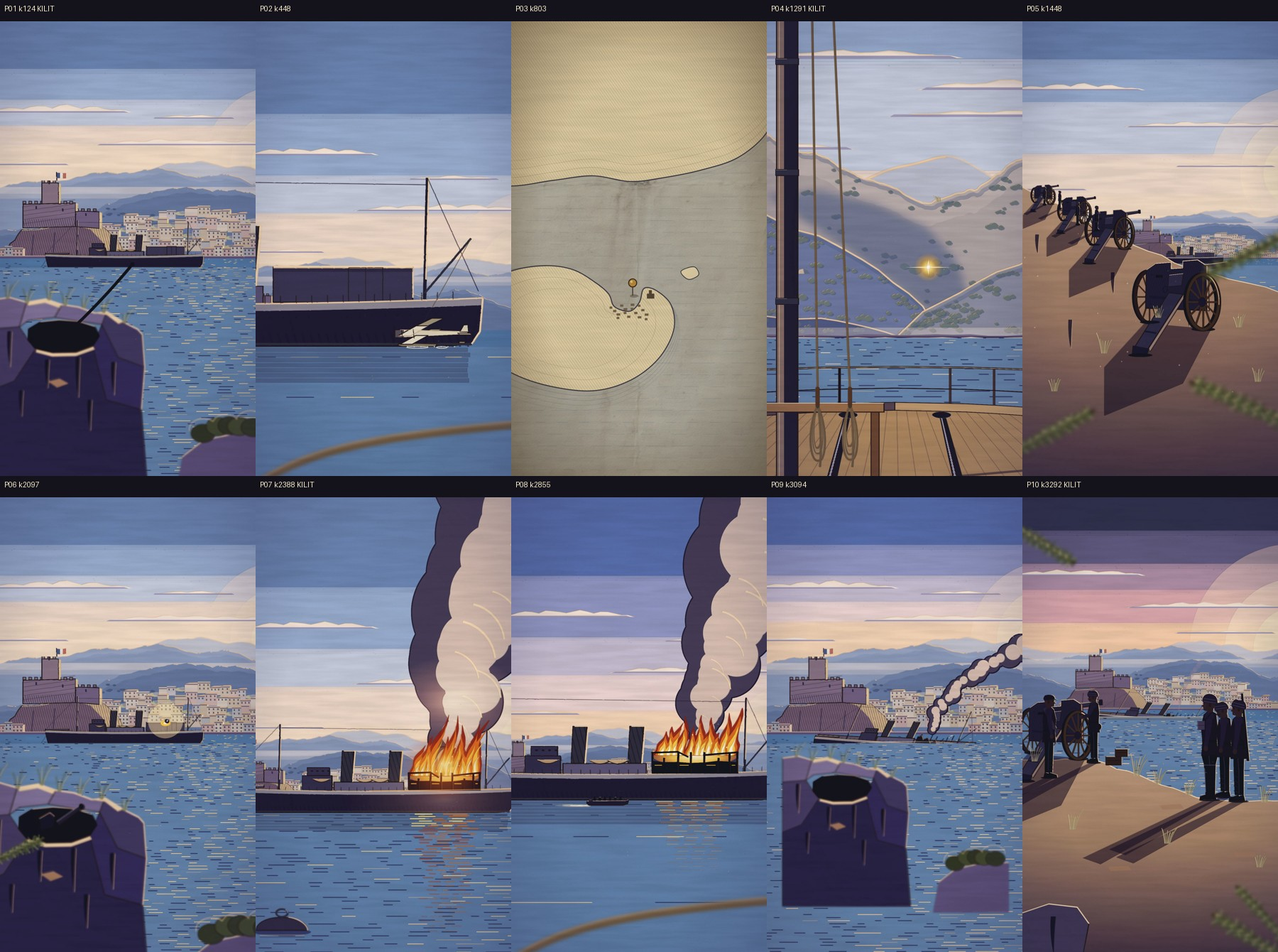
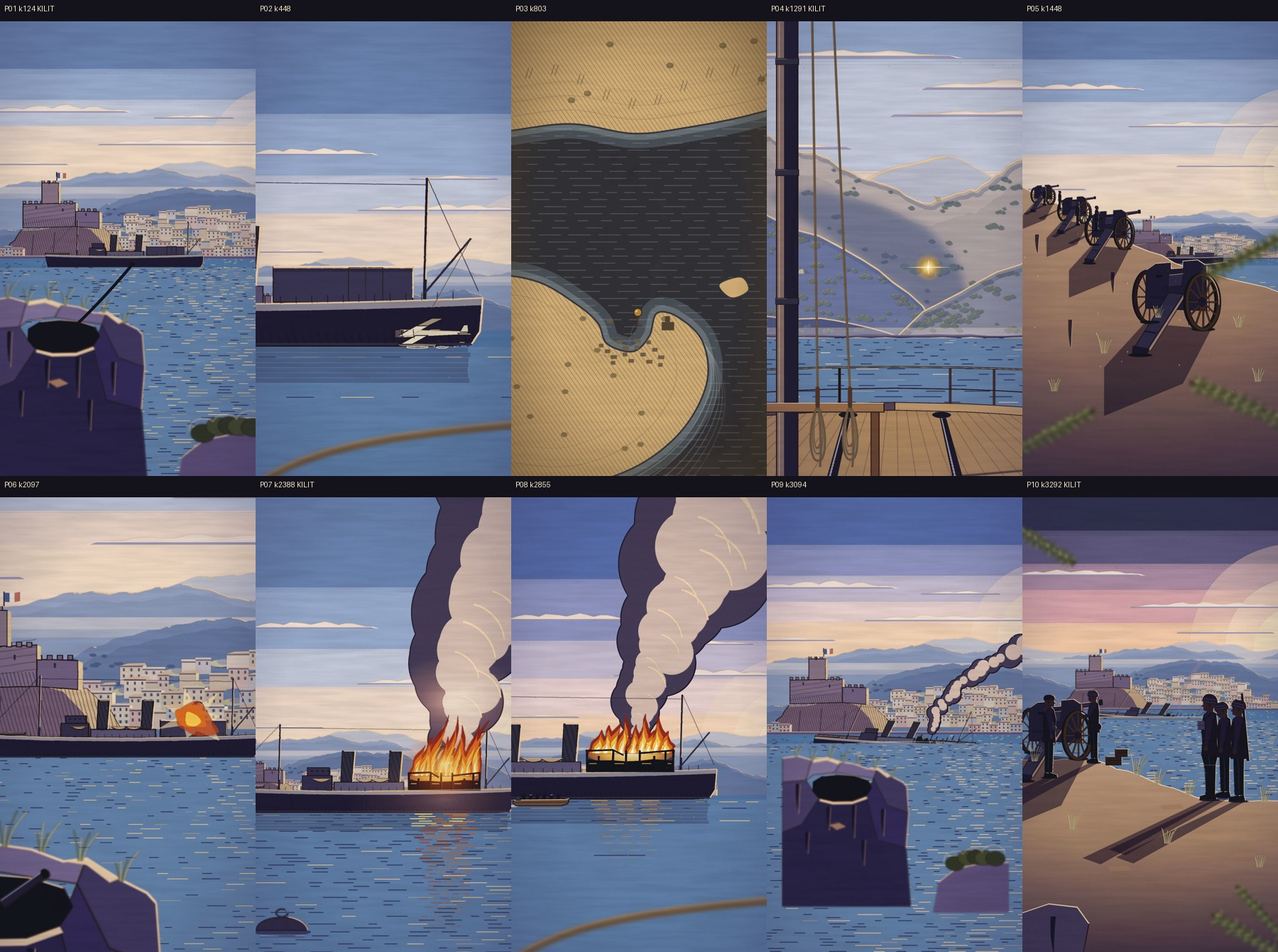
Ben-my-Chree: jüri-1 düzeltmeleri (harita, P06 doruk, P05b, P08, altyazı, ses)
Claude-Session: https://claude.ai/code/session_016TQpGXhaa5TtHYb1dDrsRh

Changed region(s): [[0.3733, 0.0, 0.6222, 0.8873], [0.0, 0.5201, 0.2178, 1.0]]

diff --git a/src/kit/sablonlar/benmychree/LimanBolum.tsx b/src/kit/sablonlar/benmychree/LimanBolum.tsx
@@ -63,10 +63,10 @@ const KiyidanOlay: React.FC<{ plan: Plan; p: number; kilit: Kilit }> = ({ plan, 
           {su.map((q, i) => <SuSutunu key={i} x={i === 0 ? sm(14) - 40 : sm(104) + 50} y={wl + (i === 0 ? 14 : 10)} p={p} bas={q} seed={`ss${i}`} boy={i === 0 ? 150 : 140} />)}
           {/* isabet: hangar bölgesinde krem çakım + KOR çekirdek (≤ 40 kare), ardından ince duman (fade yok, kadraj üstünden çıkar) */}
           {isab >= 0 && <g>
-            {isab < 12 && <circle cx={hc} cy={hy - 6} r={50 + 50 * (isab / 12)} fill={BP.cakim} opacity={0.8 * (1 - isab / 12)} />}
-            {isab < 40 && <ellipse cx={hc} cy={hy + 4} rx={24 * (1 - isab / 60)} ry={14 * (1 - isab / 60)} fill="#ffb84e" />}
-            {isab < 40 && <ellipse cx={hc} cy={hy + 4} rx={10} ry={6} fill="#fff0c4" opacity={1 - isab / 40} />}
-            <Duman taban={[hc + 6, hy]} t={isab / 60 - 600 / 40} hiz={40} genis0={6} genis1={60} ruz={ruz} seed="ksd" boy={600} tara={false} />
+            <Duman taban={[hc + 10, hy - 26]} t={isab / 60 - 600 / 40} hiz={40} genis0={14} genis1={70} ruz={ruz} seed="ksd" boy={600} tara={false} />
+            {isab < 14 && <path d={`M${pts(Array.from({ length: 14 }).map((_, i) => { const a = (i / 14) * 6.283, r = (i % 2 ? 0.45 : 1) * (70 + 50 * (isab / 14)) * (0.7 + 0.5 * rr(`ib${i}`)); return [hc + Math.cos(a) * r, hy - 10 + Math.sin(a) * r * 0.75] as P2; }))} Z`} fill={BP.cakim} opacity={0.85 * (1 - isab / 14)} />}
+            {isab < 80 && (() => { const k = 1 - isab / 120, L = (s2: string, R: number): P2[] => Array.from({ length: 9 }).map((_, i) => { const a = (i / 9) * 6.283, r = R * (0.6 + 0.6 * rr(`${s2}${i}`)) * (1 + 0.08 * Math.sin(t * 5 + i)); return [hc + Math.cos(a) * r * 1.3, hy + 2 + Math.sin(a) * r * 0.7 - (a > 3.4 && a < 6 ? r * 0.4 : 0)] as P2; });
+              return <g><path d={egriYol(L("ik1", 52 * k))} fill="#c4562c" opacity={0.7} /><path d={egriYol(L("ik2", 34 * k))} fill="#e2742c" /><path d={egriYol(L("ik4", 20 * k))} fill="#ffb84e" /></g>; })()}
           </g>}
         </g>,
         kaya: <g>
@@ -113,6 +113,9 @@ const KiyidanOlay: React.FC<{ plan: Plan; p: number; kilit: Kilit }> = ({ plan, 
     };
   };
   if (olay === "atis") kilit.push({ ad: "namlu (mevzi)", p: [372, 1250], tur: "dokunus" });
+  // isabet darbesi: ≤ 2 px, 14 karede söner (gösterişsiz; kenar boşluğu için %0.4 büyütme)
+  const is0 = param<number>(plan, "isabet", 464), ds = olay === "atis" && p >= is0 && p < is0 + 14 ? (1 - (p - is0) / 14) * 2 : 0;
+  if (ds > 0) return <div style={{ position: "absolute", inset: 0, transform: `translate(${Math.sin(p * 2.3) * ds}px, ${Math.cos(p * 3.1) * ds * 0.6}px) scale(1.004)` }}><KiyidanAda plan={plan} p={p} kilit={kilit} ek={ek} /></div>;
   return <KiyidanAda plan={plan} p={p} kilit={kilit} ek={ek} />;
 };
 
@@ -161,8 +164,9 @@ const Bot: React.FC<{ x: number; y: number; s: number; t: number; motor: number;
           <circle cx={P(u, 1.75)[0]} cy={P(u, 1.75)[1]} r={s * 0.23} fill="#2c283e" />
           {sar && <path d={`M${pts([P(u - 0.24, 1.82), P(u + 0.24, 1.86)])}`} stroke="#c8c0b4" strokeWidth={Math.max(2, s * 0.12)} />}
           <path d={`M${pts([P(u + 0.3, 0.9), P(u + 0.3, 1.5)])}`} stroke={BP.kenar} strokeWidth={1.6} opacity={0.8} /></g>; })}
-      <path d={`M${pts([P(-4.8, 0.95), P(4.2, 1.05), P(4.9, 1.25), P(4.6, 0.3), P(3.5, -0.05), P(-4.4, -0.05), P(-4.9, 0.4)])} Z`} fill="#3c3854" stroke={BP.kontur} strokeWidth={2} />
-      <polyline points={pts([P(-4.8, 0.95), P(4.2, 1.05), P(4.9, 1.25)])} fill="none" stroke={BP.kenar} strokeWidth={2.4} />
+      <path d={`M${pts([P(-4.8, 0.95), P(4.2, 1.05), P(4.9, 1.25), P(4.6, 0.3), P(3.5, -0.05), P(-4.4, -0.05), P(-4.9, 0.4)])} Z`} fill="#7a6252" stroke={BP.kontur} strokeWidth={2.5} />
+      <path d={`M${pts([P(-4.6, 0.5), P(4.5, 0.6)])}`} stroke="#5a4840" strokeWidth={Math.max(2, s * 0.1)} />
+      <polyline points={pts([P(-4.8, 0.95), P(4.2, 1.05), P(4.9, 1.25)])} fill="none" stroke={BP.kenar} strokeWidth={3} />
       <path d={`M${pts([P(-4.4, 0.95), P(-3.6, 0.95), P(-3.6, 1.6), P(-4.4, 1.55)])} Z`} fill="#4e4a66" stroke={BP.kontur} strokeWidth={1.6} />
     </g>
   );
@@ -200,7 +204,7 @@ const GemiSahne: React.FC<{ plan: Plan; p: number; kilit: Kilit }> = ({ plan, p,
   // bot: gemiden ayrılır (motor), sağ kenardan çıkar
   let botEl: React.ReactNode = null;
   if (bot) {
-    const q = ara(p, [bot.motor, bot.cikis], [0, 1], (x) => x * x * (3 - 2 * x)), bx = -66.1 + 64 + q * 150, bz = ZS - 70 - q * 60;
+    const q = ara(p, [bot.motor, bot.cikis], [0, 1], (x) => x * x * (3 - 2 * x)), bx = param<number>(plan, "bot_x0", -2.1) + q * 110, bz = ZS - 110 - q * 60;
     const zr = bz - (ZS - Zd), s = F / zr, x = 540 + (bx - xc) * s, y = yh + (hg * F) / zr;
     const motor = p >= bot.motor ? 1 : 0;
     botEl = <g>
@@ -219,7 +223,7 @@ const GemiSahne: React.FC<{ plan: Plan; p: number; kilit: Kilit }> = ({ plan, p,
         <rect x={-20} y={yh + 14} width={1120} height={Math.max(0, wl - yh - 12)} fill={BP.su} />
         {yg > 0 && <Duman taban={[hc + 30, hy]} t={t} hiz={95} genis0={40} genis1={480} ruz={ruz * 0.6} seed="gsd" boy={1600} yogun={0.9} tara={false} isikRenk="#c9aea6" />}
         <g transform={`translate(${X0} ${wl})`}><KonturTitreme derinlik="orta" seed={seed + 2} olcek={1.2}><GemiProfil pxm={pxm} durum={durum} seed={seed} /></KonturTitreme></g>
-        {yg > 0 && <Yangin x0={sm(76.1)} x1={sm(104.6)} yCati={hy} yTaban={sh(GEMI.borda + 0.2)} guc={yg} t={t} ruz={ruz} cerceve={[76.1, 80, 84.5, 89, 93.5, 98, 102, 104.6].map(sm)} />}
+        {yg > 0 && <Yangin x0={sm(76.1)} x1={sm(104.6)} yCati={hy} yTaban={sh(GEMI.borda + 0.2)} guc={yg} t={t} ruz={ruz} cerceve={[76.1, 80, 84.5, 89, 93.5, 98, 102, 104.6].map(sm)} n={9} olcek={pxm / 10.4} />}
         <rect x={-10} y={wl + 1} width={1100} height={1940 - wl} fill={mix(BP.su, BP.bugu, 0.08)} />
         <DenizCiz V={V} k={kk} t={t} isik={BP.suYol} golge={BP.suGolge} ymin={wl + 4} />
         <g transform={`translate(${X0} ${wl + 2})`} opacity={0.5}><GemiYansima pxm={pxm} seed={seed + 1} boy={0.5} /></g>
@@ -286,53 +290,60 @@ const BataryaGenis: React.FC<{ plan: Plan; p: number; kilit: Kilit }> = ({ plan,
 // durbun-insert — P05b: el + manşet + dürbün (yüz yok), başparmak odak halkasını çevirir (tık = temas)
 // ===================================================================================================
 const DurbunInsert: React.FC<{ plan: Plan; p: number; kilit: Kilit }> = ({ plan, p, kilit }) => {
+  // tur-8 (jüri-1): omuz üstünden (OTS) — dürbün derinliğe, Meis limanına bakar; iki tüp perspektifte küçülür; sağ el tüpü sarar,
+  // işaret parmağı köprüdeki odak halkasında (havada tek parmak yok); yüz yok (baş arkası flu). P01 dili: kontrajur kenar ışığı, gölgede tarama.
   const b0 = param<number>(plan, "insert_bas", 119), q = p - b0, t = p / 60;
   const hk = param<{ bas: number; bit: number; tik: number }>(plan, "halka", { bas: 20, bit: 70, tik: 60 });
-  const it = ara(q, [0, 90], [0, 1], GIRIS), s = 1 + 0.04 * it; // push-in (slider z 0 → +0.3 m)
-  const don = ara(q, [hk.bas, hk.tik], [0, 1]) - (q > hk.tik ? 0 : 0), baspar = Math.sin(Math.PI * Math.min(1, Math.max(0, (q - hk.bas) / (hk.bit - hk.bas)))) * 10;
-  const tr = () => `translate(560 760) scale(1.5) translate(-540 -758)`;
-  const kn = BP.kontur, deri = "#2e2830", deriI = "#4a4048", metal = "#6a6480", ten = "#b08870", tenG = "#7a5a50", mans = "#6a6458";
-  kilit.push({ ad: "odak halkası", p: [612, 930], tur: "dokunus" });
+  const it = ara(q, [0, 90], [0, 1], GIRIS), s = 1 + 0.05 * it;
+  const don = ara(q, [hk.bas, hk.tik], [0, 1]), parmak = Math.sin(Math.PI * Math.min(1, Math.max(0, (q - hk.bas) / (hk.bit - hk.bas)))) * 4;
+  const hedef: P2 = [640, 820]; // Meis limanı (dürbün ekseni)
+  const tr = () => `translate(${hedef[0] + 30} 760) scale(1.25) translate(-480 -900)`;
+  const kn = BP.kontur, deri = "#2e2830", metal = "#6a6480", ten = "#b48a72", tenG = "#7c5c58", kumas = "#5a564a";
+  const tup = (a: P2, b: P2, r0: number, r1: number) => { const dx = b[0] - a[0], dy = b[1] - a[1], L = Math.hypot(dx, dy), nx = -dy / L, ny = dx / L;
+    return { govde: [[a[0] + nx * r0, a[1] + ny * r0], [b[0] + nx * r1, b[1] + ny * r1], [b[0] - nx * r1, b[1] - ny * r1], [a[0] - nx * r0, a[1] - ny * r0]] as P2[], aci: (Math.atan2(dy, dx) * 180) / Math.PI, n: [nx, ny] as P2 }; };
+  const T1 = tup([300, 1110], [600, 930], 74, 58), T2 = tup([258, 1010], [560, 848], 64, 50); // T1 yakın (sağ) tüp, T2 uzak (sol) tüp
+  const objektif = (c: P2, r: number, aci: number, k: string) => <g key={k} transform={`rotate(${aci} ${c[0]} ${c[1]})`}><ellipse cx={c[0]} cy={c[1]} rx={r * 0.42} ry={r} fill={metal} stroke={kn} strokeWidth={4} /><ellipse cx={c[0] + 4} cy={c[1]} rx={r * 0.26} ry={r * 0.66} fill="#1e1a2a" /><path d={`M${c[0] - r * 0.1},${c[1] - r * 0.98} A${r * 0.42},${r} 0 0 1 ${c[0] + r * 0.42},${c[1]}`} stroke={BP.kenar} strokeWidth={4} fill="none" /></g>;
+  kilit.push({ ad: "odak halkası", p: [440, 940], tur: "dokunus" });
   return (
     <svg width={1080} height={1920} style={{ position: "absolute", inset: 0 }}>
       <RenkKaydi><Isleme aci={105}>
-        <Gok sinir={[180, 380, 560, 700]} renk={gokSutun(22)} seed={197} hale={[1150, 600]} haleR={1.2} t={t} bulut={[[-60, 520, 300, 30, "d1"], [420, 1140, 480, 26, "d2"]]} />
-        {/* arka plan: deniz + Meis (σ 8, yumuşak) */}
-        <Flu s={8}><MeisArka tr={tr} t={t} seed={181} /><rect x={-20} y={1200} width={1120} height={800} fill={mix(BP.su, BP.bugu, 0.1)} />
-          {Array.from({ length: 40 }).map((_, i) => { const x = rr(`ds${i}`) * 1100, y = 1210 + rr(`dsy${i}`) * 700; return <line key={i} x1={x} x2={x + 30} y1={y} y2={y} stroke={x > 600 ? BP.suYol : BP.suGolge} strokeWidth={6} />; })}</Flu>
-        <g transform={`translate(540 980) scale(${s}) translate(-540 -980)`}>
-          {/* uzak gövde (arkada, yukarıda) */}
-          <path d={egriYol([[250, 800], [880, 760], [920, 830], [270, 878]])} fill={mix(deri, BP.sirt[3], 0.3)} stroke={kn} strokeWidth={3} />
-          <rect x={860} y={752} width={90} height={92} rx={12} fill={metal} stroke={kn} strokeWidth={3} transform="rotate(-4 905 798)" />
-          <polyline points={pts([[260, 800], [880, 760]])} fill="none" stroke={BP.kenar} strokeWidth={3} />
+        <Gok sinir={[180, 380, 560, 700]} renk={gokSutun(22)} seed={197} hale={[1150, 620]} haleR={1.25} t={t} bulut={[[-60, 520, 300, 30, "d1"], [420, 1140, 480, 26, "d2"]]} />
+        {/* derinlik: Meis + demirli gemi (dürbünün baktığı yer), deniz — yumuşak (σ 4: telefoto değil, OTS) */}
+        <Flu s={4}><MeisArka tr={tr} t={t} seed={181} /><g transform={tr()}><g transform="translate(190 1040)"><GemiProfil pxm={11250 / 2000} durum="demirli" seed={181} /></g></g>
+          <rect x={-20} y={1010} width={1120} height={1000} fill={mix(BP.su, BP.bugu, 0.1)} />
+          {Array.from({ length: 60 }).map((_, i) => { const x = rr(`ds${i}`) * 1100, y = 1020 + rr(`dsy${i}`) * 900; return <line key={i} x1={x} x2={x + 18 + 30 * rr(`dsl${i}`)} y1={y} y2={y} stroke={x > 600 ? BP.suYol : BP.suGolge} strokeWidth={4} />; })}</Flu>
+        <g transform={`translate(250 1300) scale(${1.55 * s}) translate(-250 -1300)`}>
+          {/* uzak tüp (sol, arkada) */}
+          <path d={`M${pts(T2.govde)} Z`} fill={mix(deri, BP.sirt[3], 0.25)} stroke={kn} strokeWidth={4} />
+          {objektif([560, 848], 50, T2.aci, "o2")}
           {/* köprü + odak halkası (tırtıl çizgileri döner) */}
-          <path d={`M${pts([[540, 820], [700, 806], [704, 896], [544, 910]])} Z`} fill={deriI} stroke={kn} strokeWidth={3} />
-          <g><rect x={578} y={842} width={74} height={60} rx={10} fill={metal} stroke={kn} strokeWidth={3} />
-            <defs><clipPath id="dHalka"><rect x={580} y={844} width={70} height={56} rx={9} /></clipPath></defs>
-            <g clipPath="url(#dHalka)">{Array.from({ length: 12 }).map((_, i) => { const x = 572 + ((i * 9 + don * 26) % 108); return <line key={i} x1={x} x2={x} y1={842} y2={902} stroke="#3e3850" strokeWidth={3} />; })}</g>
-            <line x1={582} x2={648} y1={846} y2={846} stroke={BP.kenar} strokeWidth={3} /></g>
-          {/* yakın gövde: deri kaplama, metal halkalar, objektif sağda, göz merceği solda */}
-          <path d={egriYol([[180, 900], [900, 860], [960, 960], [940, 1080], [200, 1110], [150, 1010]])} fill={deri} stroke={kn} strokeWidth={4} />
-          <Tara d={egriYol([[180, 900], [900, 860], [960, 960], [940, 1080], [200, 1110], [150, 1010]])} aci={100} aralik={9} kalin={2} renk="#1e1a24" alfa={0.35} kutu={[150, 860, 960, 1110]} />
-          <path d={`M${pts([[860, 862], [930, 858], [962, 950], [952, 1076], [884, 1080]])} Z`} fill={metal} stroke={kn} strokeWidth={4} />
-          <path d={`M${pts([[110, 920], [190, 906], [196, 1102], [116, 1108]])} Z`} fill={metal} stroke={kn} strokeWidth={4} />
-          <polyline points={pts([[190, 904], [890, 864], [930, 860]])} fill="none" stroke={BP.kenar} strokeWidth={5} />
-          <polyline points={pts([[930, 858], [962, 950], [952, 1076]])} fill="none" stroke={BP.kenar} strokeWidth={4} />
-          {/* el: tek parça siluet (dikiş/tırnak yok); parmaklar gövdeyi üstten sarar, başparmak halkada */}
-          <path d={egriYol([[260, 1100], [330, 980], [430, 940], [560, 930], [620, 960], [600, 1030], [520, 1060], [470, 1120], [430, 1240], [300, 1290], [220, 1230]])} fill={ten} stroke={kn} strokeWidth={4} />
-          <path d={egriYol([[300, 1270], [430, 1230], [470, 1130], [440, 1210], [360, 1270]])} fill={tenG} opacity={0.6} />
-          <g transform={`rotate(${-baspar} 560 960)`}>
-            <path d={egriYol([[540, 960], [580, 900], [622, 878], [652, 890], [640, 920], [600, 950], [575, 985]])} fill={ten} stroke={kn} strokeWidth={4} />
-            <path d={`M${pts([[590, 902], [622, 882], [648, 890]])}`} stroke={BP.kenar} strokeWidth={4} fill="none" />
-          </g>
-          <path d={`M${pts([[330, 984], [430, 944], [560, 932]])}`} stroke={BP.kenar} strokeWidth={4} fill="none" />
-          {/* manşet (üniforma kolu) + kol */}
-          <path d={egriYol([[180, 1220], [300, 1180], [360, 1300], [320, 1480], [120, 1560], [-60, 1600], [-80, 1300]])} fill={mans} stroke={kn} strokeWidth={4} />
-          <path d={`M${pts([[220, 1214], [300, 1186], [350, 1296]])}`} stroke={BP.kenar} strokeWidth={4} fill="none" />
-          <path d={`M${pts([[196, 1250], [310, 1210]])}`} stroke="#4e4a44" strokeWidth={6} />
-          {/* kayış: dürbünden aşağı */}
-          <path d="M150,1030 C110,1200 140,1500 240,1920" stroke="#3a2e28" strokeWidth={18} fill="none" />
+          <path d={`M${pts([[360, 1010], [470, 950], [500, 990], [392, 1050]])} Z`} fill="#3e3640" stroke={kn} strokeWidth={3} />
+          <g transform="rotate(-30 440 948)"><rect x={404} y={920} width={74} height={50} rx={10} fill={metal} stroke={kn} strokeWidth={3} />
+            <defs><clipPath id="dHalka2"><rect x={406} y={922} width={70} height={46} rx={9} /></clipPath></defs>
+            <g clipPath="url(#dHalka2)">{Array.from({ length: 12 }).map((_, i) => { const x = 398 + ((i * 9 + don * 26) % 108); return <line key={i} x1={x} x2={x} y1={918} y2={972} stroke="#3e3850" strokeWidth={3} />; })}</g>
+            <line x1={408} x2={474} y1={922} y2={922} stroke={BP.kenar} strokeWidth={3} /></g>
+          {/* yakın tüp (sağ): deri, gölge tarafı taramalı, üst kenar ışıkta */}
+          <path d={`M${pts(T1.govde)} Z`} fill={deri} stroke={kn} strokeWidth={4} />
+          <Tara d={`M${pts([T1.govde[2], T1.govde[3], [(T1.govde[0][0] + T1.govde[3][0]) / 2, (T1.govde[0][1] + T1.govde[3][1]) / 2], [(T1.govde[1][0] + T1.govde[2][0]) / 2, (T1.govde[1][1] + T1.govde[2][1]) / 2]])} Z`} aci={60} aralik={8} kalin={2} renk="#141018" alfa={0.5} kutu={[220, 900, 660, 1200]} />
+          <polyline points={pts([T1.govde[0], T1.govde[1]])} fill="none" stroke={BP.kenar} strokeWidth={4} />
+          {[0.3, 0.72].map((u, i) => { const c: P2 = [300 + 300 * u, 1110 - 180 * u], r = 74 - 16 * u; return <path key={i} d={`M${c[0] + T1.n[0] * r},${c[1] + T1.n[1] * r} L${c[0] - T1.n[0] * r},${c[1] - T1.n[1] * r}`} stroke={metal} strokeWidth={8} />; })}
+          {objektif([600, 930], 58, T1.aci, "o1")}
+          {/* sağ el: avuç tüpün altında, parmaklar üstten sarar; işaret parmağı odak halkasına uzanır (tek parça siluet, iç çizgi yok) */}
+          <path d={egriYol([[250, 1260], [330, 1170], [430, 1120], [500, 1060], [540, 1010], [520, 980], [470, 1000], [430, 1040], [380, 1050], [340, 1030], [320, 1080], [260, 1150], [200, 1220]])} fill={ten} stroke={kn} strokeWidth={4} />
+          <path d={egriYol([[260, 1250], [330, 1175], [430, 1125], [400, 1170], [320, 1230]])} fill={tenG} opacity={0.75} />
+          <g transform={`rotate(${parmak} 420 1010)`}><path d={egriYol([[380, 1052], [400, 1000], [430, 968], [458, 958], [470, 974], [450, 996], [428, 1030], [412, 1060]])} fill={ten} stroke={kn} strokeWidth={4} />
+            <path d={`M${pts([[430, 968], [458, 958], [470, 974]])}`} stroke={BP.kenar} strokeWidth={3} fill="none" /></g>
+          <path d={`M${pts([[500, 1060], [540, 1010], [520, 980]])}`} stroke={BP.kenar} strokeWidth={4} fill="none" />
+          {/* manşet + ön kol (kameraya doğru, sol-alta) */}
+          <path d={egriYol([[200, 1230], [280, 1160], [340, 1260], [260, 1520], [120, 1700], [-80, 1760], [-80, 1400]])} fill={kumas} stroke={kn} strokeWidth={4} />
+          <path d={`M${pts([[214, 1222], [286, 1166], [336, 1250]])}`} stroke={BP.kenar} strokeWidth={4} fill="none" />
+          <path d={`M${pts([[200, 1268], [300, 1200]])}`} stroke="#3e3a32" strokeWidth={6} />
         </g>
+        {/* omuz + baş arkası (flu, yüz yok): kabalak arkası sol-üstte, omuz sol-altta */}
+        <Flu s={9}><path d={egriYol([[-120, 1340], [60, 1300], [200, 1380], [260, 1600], [200, 2000], [-120, 2000]])} fill="#3c3830" />
+          <path d={egriYol([[-80, 860], [60, 820], [170, 880], [200, 1000], [160, 1140], [40, 1200], [-80, 1180]])} fill="#2e2a2c" />
+          <path d={`M${pts([[60, 820], [170, 880], [200, 1000]])}`} stroke={BP.kenar} strokeWidth={6} fill="none" />
+          <path d={`M${pts([[60, 1300], [200, 1380], [250, 1520]])}`} stroke={BP.kenar} strokeWidth={6} fill="none" /></Flu>
       </Isleme></RenkKaydi>
     </svg>
   );

diff --git a/src/kit/sablonlar/harita/Meis.tsx b/src/kit/sablonlar/harita/Meis.tsx
@@ -29,6 +29,7 @@ const ADACIK: XY[] = [[0.95, 0.42], [1.18, 0.5], [1.26, 0.36], [1.08, 0.28]];
 // anakara (kuzey): Çukurbağ yarımadası güney kıyısı → doğuda Kaş koyu; kuzey kenar kadraj dışı
 const KARA: XY[] = [[-5, 1.7], [-3.9, 1.95], [-3.0, 2.05], [-2.1, 1.92], [-1.3, 2.02], [-0.6, 2.1], [0.05, 2.0], [0.6, 2.06], [1.3, 2.2], [1.95, 2.42], [2.45, 2.85], [2.6, 3.35], [2.95, 3.6], [3.5, 3.55], [4.2, 3.3], [5, 3.2], [5, 8], [-5, 8]];
 const INK = "#2b1d10";
+const rr2 = (i: number, k: number) => { const x = Math.sin(i * 12.9898 + k * 78.233) * 43758.5453; return x - Math.floor(x); }; // seed'li, sabit
 export const meisMi = (plan: Plan) => param<string>(plan, "harita_gorunum", "") === "meis";
 const LIMAN: XY = [0.1, 0.0], MEVZI: XY = [0.32, 2.03];
 export const meisIgneNokta = (plan: Plan): XY | null => { const r = param<{ yon: string } | null>(plan, "meis_rota", null); return meisNokta(...(r?.yon === "kiyiya" ? LIMAN : LIMAN)); };
@@ -45,7 +46,6 @@ export const MeisSahne: React.FC<SablonProps & { Igne: React.FC<{ x: number; y: 
   const IG = meisNokta(...LIMAN);
   if (r) kilit.push({ ad: "rota ucu", p: [540 + k.cx + (uc[0] - 540) * k.cs, 960 + k.cy + (uc[1] - 960) * k.cs], tur: "dokunus" });
   const adaD = yumusat(km(ADA)), karaD = yumusat(km(KARA)), adacikD = yumusat(km(ADACIK));
-  const dalga = (d: string, n: number, id: string) => Array.from({ length: n }).map((_, i) => <path key={`${id}${i}`} d={d} fill="none" stroke="#5d6b86" strokeWidth={2.2} opacity={0.38 - i * 0.07} transform={`translate(540 ${960}) scale(${1 + (i + 1) * 0.035}) translate(-540 -960)`} />);
   return (
     <div style={{ position: "absolute", inset: 0, backgroundColor: "#1a120b", overflow: "hidden" }}>
       <div style={{ position: "absolute", inset: 0, transform: `translate(${k.cx}px,${k.cy}px) scale(${k.cs})` }}>
@@ -56,21 +56,28 @@ export const MeisSahne: React.FC<SablonProps & { Igne: React.FC<{ x: number; y: 
             <pattern id="mTep" patternUnits="userSpaceOnUse" width={7} height={7} patternTransform="rotate(55)"><rect width={2.2} height={7} fill="#6a5a40" /></pattern>
           </defs>
           {/* deniz: soluk mavi-gri yıkama + kıyıya paralel dalga çizgileri (litografi) */}
-          <rect x={-1400} y={-1500} width={3880} height={4920} fill="#7d90a4" opacity={0.55} />
-          {Array.from({ length: 34 }).map((_, i) => <line key={`dl${i}`} x1={-200 + (i % 3) * 60} x2={1280} y1={300 + i * 48} y2={300 + i * 48} stroke="#6a7a90" strokeWidth={2} strokeDasharray={`${40 + (i % 4) * 20} ${30 + (i % 3) * 18}`} opacity={0.35} />)}
-          {dalga(adaD, 4, "da")}
+          {/* tur-8 (jüri-1): koyu deniz (litografi lacivert-çelik; kâğıt dokusu arkadan sızar), sığ kıyı bandı açık, yatay gravür taraması */}
+          <rect x={-1400} y={-1500} width={3880} height={4920} fill="#151b2c" opacity={0.93} />
+          <path d={karaD} fill="none" stroke="#5f7894" strokeWidth={70} opacity={0.45} /><path d={adaD} fill="none" stroke="#5f7894" strokeWidth={70} opacity={0.45} />
+          <path d={karaD} fill="none" stroke="#7d93ac" strokeWidth={30} opacity={0.5} /><path d={adaD} fill="none" stroke="#7d93ac" strokeWidth={30} opacity={0.5} />
+          {Array.from({ length: 90 }).map((_, i) => <line key={`dl${i}`} x1={-300 + (i % 5) * 37} x2={1380} y1={200 + i * 17} y2={200 + i * 17} stroke="#9fb0c4" strokeWidth={2} strokeDasharray={`${26 + (i % 4) * 14} ${18 + (i % 3) * 12}`} opacity={0.32} />)}
+          {[0, 1, 2, 3, 4, 5].map((i) => <path key={`dg${i}`} d={adaD} fill="none" stroke="#9fb0c4" strokeWidth={2.4} opacity={0.45 - i * 0.06} transform={`translate(540 960) scale(${1.05 + i * 0.045}) translate(-540 -960)`} />)}
           {/* anakara: kara + tarama + iç tepe gölgeleri (yamaç), kıyı mürekkep */}
-          <path d={karaD} fill="#e0d3b4" />
-          <path d={karaD} fill="url(#mTar)" opacity={0.3} />
+          <path d={karaD} fill="#dcb47a" />
+          <path d={karaD} fill="url(#mTar)" opacity={0.55} />
+          {/* tepe gölgesi (güneydoğu ışığı) + maki noktaları */}
+          {Array.from({ length: 70 }).map((_, i) => { const c = meisNokta(-3 + rr2(i, 1) * 7, 2.3 + rr2(i, 2) * 3.2); return <g key={`mk${i}`}><ellipse cx={c[0]} cy={c[1]} rx={9} ry={7} fill="#6a5a3c" opacity={0.75} /><ellipse cx={c[0] - 2} cy={c[1] - 2} rx={5} ry={3.5} fill="#8a7a54" /></g>; })}
+          {Array.from({ length: 26 }).map((_, i) => { const c = meisNokta(-3.2 + i * 0.27, 2.55 + Math.sin(i * 0.9) * 0.18); return <path key={`th${i}`} d={`M${c[0]},${c[1]} l${-8},${26} M${c[0] + 9},${c[1] + 2} l${-8},${24}`} stroke="#6a5a40" strokeWidth={2.5} opacity={0.55} />; })}
           {/* kabartma: kıyıya paralel iç eşyükselti çizgileri (gravür) */}
           {[1, 2, 3].map((i) => <path key={`ek${i}`} d={karaD} fill="none" stroke="#8a7a5c" strokeWidth={2} opacity={0.5 - i * 0.1} transform={`translate(0 ${-i * 34})`} />)}
           <path d={karaD} fill="none" stroke="#2b2f45" strokeWidth={4} />
           {[1, 2].map((i) => <path key={`kd${i}`} d={karaD} fill="none" stroke="#5d6b86" strokeWidth={2} opacity={0.3 - i * 0.08} transform={`translate(0 ${i * 16})`} />)}
           {/* ada + adacık */}
-          <path d={adaD} fill="#e0d3b4" /><path d={adaD} fill="url(#mTar)" opacity={0.3} />
+          <path d={adaD} fill="#dcb47a" /><path d={adaD} fill="url(#mTar)" opacity={0.55} />
+          {Array.from({ length: 30 }).map((_, i) => { const c = meisNokta(-2.4 + rr2(i, 3) * 2.8, -1.3 + rr2(i, 4) * 1.4); return <ellipse key={`am${i}`} cx={c[0]} cy={c[1]} rx={8} ry={6} fill="#6a5a3c" opacity={0.7} />; })}
           {[0.82, 0.64].map((k2, i) => <path key={`ae${i}`} d={adaD} fill="none" stroke="#8a7a5c" strokeWidth={2} opacity={0.45 - i * 0.1} transform={`translate(${meisNokta(-1.0, -0.6)[0]} ${meisNokta(-1.0, -0.6)[1]}) scale(${k2}) translate(${-meisNokta(-1.0, -0.6)[0]} ${-meisNokta(-1.0, -0.6)[1]})`} />)}
           <path d={adaD} fill="none" stroke="#2b2f45" strokeWidth={4} />
-          <path d={adacikD} fill="#e0d3b4" stroke="#2b2f45" strokeWidth={3} />
+          <path d={adacikD} fill="#dcb47a" stroke="#2b2f45" strokeWidth={3} />
           {/* Meis kasabası: liman koyu çevresinde ev blokları + kale (küçük ikon); bayrak yok (renk yalnız mühür/vurgu) */}
           {Array.from({ length: 16 }).map((_, i) => { const u = i / 15, c = meisNokta(-0.28 + u * 0.62 + (i % 3) * 0.02, -0.22 - (i % 4) * 0.07 + Math.sin(u * 3) * 0.05); return <rect key={i} x={c[0] - 6} y={c[1] - 5} width={11 + (i % 3) * 2} height={9} fill="#6b5a44" />; })}
           {(() => { const c = meisNokta(0.42, -0.05); return <g><rect x={c[0] - 16} y={c[1] - 18} width={30} height={20} fill="#4c3e2c" /><rect x={c[0] - 8} y={c[1] - 32} width={12} height={14} fill="#4c3e2c" /></g>; })()}

diff --git a/src/kit/altyazi.tsx b/src/kit/altyazi.tsx
@@ -42,7 +42,8 @@ const sesDuzelt = (W: Kelime[], dil: Dil) => {
 // noktalamasız: harf/rakam/%; kelime içi kesme işareti (Tours'taydı) korunur; tire boşluk olur
 const temizle = (s: string, a: AltyaziAyar, dil: Dil) => {
   let q = s;
-  if (a.noktalamasiz) q = q.replace(/[-–—]/g, " ").replace(/([\p{L}\p{N}])['’](\p{L})/gu, "$1’$2").replace(/[^\p{L}\p{N}%’ ]/gu, "").replace(/\s+/g, " ").trim();
+  if (a.noktalamasiz && a.tire_koru) q = q.replace(/(^|\s)[-–—]+|[-–—]+(?=\s|$)/g, " ").replace(/([\p{L}\p{N}])['’](\p{L})/gu, "$1’$2").replace(/[^\p{L}\p{N}%’\- ]/gu, "").replace(/\s+/g, " ").trim();
+  else if (a.noktalamasiz) q = q.replace(/[-–—]/g, " ").replace(/([\p{L}\p{N}])['’](\p{L})/gu, "$1’$2").replace(/[^\p{L}\p{N}%’ ]/gu, "").replace(/\s+/g, " ").trim();
   if (a.kucuk) q = q.toLocaleLowerCase(dil === "tr" ? "tr" : "en");
   return q;
 };
@@ -74,25 +75,25 @@ export const altyaziGruplari = (plan: Plan, a: AltyaziAyar, sesler: PlanSes[], k
 // Bant seçimi (öncelik): replik > ekran yazısı > altyazı. Altyazı alt bantta (y 1290–1490); alt bantta ayak/temas/dokunuş/kurulum
 // kilidi ya da alt bant ekran yazısı varsa üst banda çıkar; gittiği bantta ekran yazısı varsa öteki banda, o da doluysa GÖSTERİLMEZ.
 const ALT_KILIT = (k: KilitNokta) => k.tur !== "yuz" && k.tur !== "yazi" && k.p[1] > YAZI.altY - 20 && k.p[1] < YAZI.altAlt + 20;
-export const altyaziBant = (plan: Plan, a: AltyaziAyar, p: number, kilit: KilitNokta[], dil: Dil, ana: Dil): "ust" | "alt" | null => {
+export const altyaziBant = (plan: Plan, a: AltyaziAyar, p: number, kilit: KilitNokta[], dil: Dil, ana: Dil): "ust" | "alt" | "ust_alti" | null => {
   if (replikCoz(plan, dil, ana).some((r) => p >= r.bas && p < r.bit)) return null;
   const ek = ekranCoz(plan, dil, ana).filter((y) => p >= y.bas && p < y.bit);
   const dolu = { ust: ek.some((y) => y.bant === "ust"), alt: ek.some((y) => y.bant === "alt") || kilit.some(ALT_KILIT) };
   const tercih = a.bant === "ust" ? "ust" : "alt";
   if (!dolu[tercih]) return tercih;
   const obur = tercih === "alt" ? "ust" : "alt";
-  if (a.bant === "oto" || a.bant === undefined) return dolu[obur] ? null : obur;
+  if (a.bant === "oto" || a.bant === undefined) return dolu[obur] ? (a.dolu_ise === "ust_alti" ? "ust_alti" : null) : obur;
   return null; // bant elle sabitlendi ve dolu
 };
 
 const KAGIT = "#f3ead6", MUREKKEP = "#1c1915", KIRMIZI = "#e5483c";
-export const KitAltyazi: React.FC<{ g: AltyaziGrup; p: number; bant: "ust" | "alt"; a: AltyaziAyar; vurgu?: string[]; dil: Dil }> = ({ g, p, bant, a, vurgu, dil }) => {
+export const KitAltyazi: React.FC<{ g: AltyaziGrup; p: number; bant: "ust" | "alt" | "ust_alti"; a: AltyaziAyar; vurgu?: string[]; dil: Dil }> = ({ g, p, bant, a, vurgu, dil }) => {
   const t = GIRIS(interpolate(p, [g.bas, g.bas + 6], [0, 1], cl));
   const cik = interpolate(p, [g.bit - 3, g.bit], [1, 0], cl); // hızlı çıkış (3 kare)
   const k = g.metin.split(" ").filter(Boolean);
   const vi = vurguIndeks(k, vurgu, dil);
   const px = Math.min(a.boyut ?? 84, (YAZI.kutuW - 40) / Math.max(1, g.metin.length * 0.6));
-  const merkezY = bant === "alt" ? (YAZI.altY + YAZI.altAlt) / 2 : (YAZI.ustY + YAZI.ustAlt) / 2;
+  const merkezY = bant === "alt" ? (YAZI.altY + YAZI.altAlt) / 2 : bant === "ust_alti" ? YAZI.ustAlt + 80 : (YAZI.ustY + YAZI.ustAlt) / 2;
   return (
     <AbsoluteFill style={{ pointerEvents: "none" }}>
       <div lang={dil} style={{ position: "absolute", left: YAZI.yan, right: YAZI.yan, top: merkezY - px * 0.62, textAlign: "center", whiteSpace: "nowrap",

diff --git a/src/kit/tipler.ts b/src/kit/tipler.ts
@@ -87,7 +87,9 @@ export type EkranYazisi = { bant: Bant; metin: DilMetinT; vurgu?: DilListeT; en?
 export type SayacAyar = { hedef: number; baslangic?: number; bas?: number; sure?: number; ondalik?: number; vurgu?: boolean;
   donus?: { kare: number; metin: DilMetinT; en?: string } };
 // KT-1 kelime kelime altyazı (yazı katmanı, dil başına; ses json kelime zamanlarından). Bölüm düzeyinde açılır, plan düzeyinde ezilir/kapatılır.
-export type AltyaziAyar = { acik?: boolean; kucuk?: boolean; noktalamasiz?: boolean; grup?: 1 | 2 | 3; maks_harf?: number; bant?: "oto" | "alt" | "ust"; boyut?: number; vurgu?: DilListeT; vurgu_ses?: boolean };
+export type AltyaziAyar = { acik?: boolean; kucuk?: boolean; noktalamasiz?: boolean; grup?: 1 | 2 | 3; maks_harf?: number; bant?: "oto" | "alt" | "ust"; boyut?: number; vurgu?: DilListeT; vurgu_ses?: boolean;
+  // Ben-my-Chree (yalnız ekleme): tire_koru → kelime içi tire korunur ("Ben-my-Chree'ydi"); dolu_ise "ust_alti" → iki bant doluysa üst yazının altında (y ≈ 470) gösterilir
+  tire_koru?: boolean; dolu_ise?: "ust_alti" };
 // KT-2 kamera dili (Bolum sarmalayıcısı; şablon kamerasının ÜSTÜNE): itme = plan boyunca lineer ölçek artışı (0.04 = %4), titreme px genlik, hiz çarpan, seed
 export type KameraDil = { itme?: number; odak?: P; titreme?: number; hiz?: number; seed?: number; aci?: number };
 // KT-2 plan geçişi (çıkan planda): whip — yon = görüntünün kaydığı yön; kare = her iki yandaki yarı uzunluk (8)

diff --git a/src/kit/sablonlar/benmychree/LimanYeni.tsx b/src/kit/sablonlar/benmychree/LimanYeni.tsx
@@ -103,8 +103,8 @@ const dilYol = (bx: number, by: number, w: number, h: number, t: number, ruz: nu
   for (let i = 0; i <= n; i++) { const u = i / n, [x, y] = omurga(u), g = gen(u); sol.push([x - g, y]); sag.push([x + g * (0.85 + 0.3 * rr(`${sd}a${i}`)), y]); }
   const uc = omurga(1); return egriYol([...sol.slice(0, n), [uc[0] + ruz * 6, uc[1] - 4], ...sag.slice(0, n).reverse()]);
 };
-export const Yangin: React.FC<{ x0: number; x1: number; yCati: number; yTaban: number; guc: number; t: number; ruz: number; cerceve: number[] }> = ({ x0, x1, yCati, yTaban, guc, t, ruz, cerceve }) => {
-  const W = x1 - x0, N = 11, H = 330 * guc;
+export const Yangin: React.FC<{ x0: number; x1: number; yCati: number; yTaban: number; guc: number; t: number; ruz: number; cerceve: number[]; n?: number; olcek?: number }> = ({ x0, x1, yCati, yTaban, guc, t, ruz, cerceve, n = 11, olcek = 1 }) => {
+  const W = x1 - x0, N = n, H = 330 * guc * olcek; // n/olcek varsayılanı P07b kilit (11, 1)
   const diller = Array.from({ length: N }).map((_, i) => ({ bx: x0 + W * (0.04 + 0.92 * (i + 0.5) / N) + (rr(`yd${i}`) - 0.5) * W * 0.05, w: W / N * (1.6 + 0.9 * rr(`yw${i}`)), h: H * (0.35 + 0.65 * rr(`yh${i}`) ** 0.7) * (i % 3 === 1 ? 1 : 0.8), sd: `yg${i}` }));
   return (
     <g>

diff --git a/tools/benmychree_miks.py b/tools/benmychree_miks.py
@@ -69,17 +69,36 @@ for dil in (sys.argv[1:] or ["tr", "en"]):
     fol *= np.interp(np.arange(len(fol)), (np.arange(nb) + .5) * hb, k)[:, None]
     fol *= g(FOLEY_KAZANC_DB)
     amb = np.zeros((N, 2))
+    # tur-8: ortam yatakları kesmede komşu yatakla tam örtüşür (n +0.8 sn; çapraz geçişte çukur yok)
     for ad, o in ORT.items():
         x = oku(PUB + o["dosya"]); x = x * g(-18 - lufs(x))
         for u in o["kullanim"]:
-            n = int((u["kare_bit"] - u["kare_bas"]) / FPS * SR) + int(.4 * SR); y = np.resize(x, (n, 2)) if n > len(x) else x[:n]
+            n = int((u["kare_bit"] - u["kare_bas"]) / FPS * SR) + int(.8 * SR); y = np.resize(x, (n, 2)) if n > len(x) else x[:n]
             y = (lp(y, u["lp_hz"]) if u.get("lp_hz") else y) * g(u["db"]); f = int(.4 * SR); y[:f] *= np.linspace(0, 1, f)[:, None]; y[-f:] *= np.linspace(1, 0, f)[:, None]
             koy(amb, y, u["kare_bas"] / FPS - .2)
     # müzik (miks.json): aralarda db, konuşmada duck (mutlak, dosya seviyesine göre); atak/bırakma
     m = oku(MUZIK)[:N]; m = np.vstack([m, np.zeros((N - len(m), 2))]) if len(m) < N else m
     e = env(ses, MK["muzik"]["duck"]["atak_kare"] / FPS, MK["muzik"]["duck"]["birakma_kare"] / FPS)
+    # tur-8 (jüri-1): plan kesmesindeki kısa konuşma boşluğu (≤ 0.9 sn) müzikle köprülenir — duck bırakması (24 kare) boşluktan uzun
+    # olduğu için müzik çukurda kalıyordu (18.18 / 27.12 sn). Boşluk içinde duck 0.25'e iner (müzik ≈ +4.5 dB), 60 ms yumuşak.
+    akt = np.abs(ses).max(axis=1) > g(-45); hs2 = int(.01 * SR); nb2 = len(akt) // hs2; ak = akt[:nb2 * hs2].reshape(nb2, hs2).any(1)
+    sinir = []; t0b = 0
+    for pl in bolum["planlar"]: t0b += pl["sure_kare"]; sinir.append(t0b / FPS)
+    hedef = np.ones(nb2)
+    i = 0
+    while i < nb2:
+        if not ak[i]:
+            j = i
+            while j < nb2 and not ak[j]: j += 1
+            a0, a1 = i * hs2 / SR, j * hs2 / SR
+            if 0.1 < a1 - a0 <= 1.1 and any(a0 - 0.05 <= b <= a1 + 0.05 for b in sinir): hedef[i:j] = 0.25
+            i = j
+        else: i += 1
+    hedef = np.convolve(hedef, np.ones(6) / 6, "same")
+    e = np.minimum(e, np.interp(np.arange(len(e)), (np.arange(nb2) + .5) * hs2, hedef))
     X = mom98(m); m = m * g(-19.5 - X)   # müzik momentary %99.5 tepesi = anlatım referansı (0 dB); sonra aralık -16, konuşma -22 (tepelere de uyar)
-    m = m * g(-16 * (1 - e) + -22 * e)[:, None]; print("müzik dosyası momentary p99.5:", round(X, 2), "LUFS -> kit eşdeğeri db", round(-35.5 - X, 1), "duck", round(-41.5 - X, 1))
+    kopru = np.interp(np.arange(len(e)), (np.arange(nb2) + .5) * hs2, 1 - hedef)  # köprü boşluğunda müzik +6 dB (aralık tavanı −16 dB'yi aşmaz: seyrek piyano bölümü)
+    m = m * g(-16 * (1 - e) + -22 * e + 5.5 * kopru)[:, None]; amb = amb * g(7 * kopru)[:, None]  # ortam da köprüde +7 dB (yatak −24…−33'ten) print("müzik dosyası momentary p99.5:", round(X, 2), "LUFS -> kit eşdeğeri db", round(-35.5 - X, 1), "duck", round(-41.5 - X, 1))
     nf = int(.6 * SR)
     for x in (amb, fol): x[-nf:] *= np.linspace(1, 0, nf)[:, None]
     for nm, x in (("anlatim", ses), ("foley", fol), ("muzik", m), ("ortam", amb)): yaz(f"{OUT}{dil}/{nm}.wav", x)

diff --git a/bolumler/ben-my-chree/katki-raporu.md b/bolumler/ben-my-chree/katki-raporu.md
@@ -283,3 +283,33 @@
 - Kararlar: puan 6 (geçmez). Düzeltme sırası harita > P06 doruk > P05b; altyazı kiti hatası (tire + P01 kanca altyazısının gizlenmesi) 3 sınırının dışında kritik.
 - Kurallar/ihlaller: kanca ekranda yok (üç katmanlı kanca); harita kontrast L* p5 51 (≤22 kuralı), sıcak %0; P05b dürbün yön sürekliliği + tek kalkık parmak; P08 bot okunurluk ~%1–2 (beyan %6); P08 alev tur-11 notunun tekrarı (süreç hatası); P10a askerler >%5 ve yüzsüz (kilit, öneri yok); kesme öncesi müzik çukurları (duck bırakma 24 kare > boşluk).
 - Açık sorular: P10a asker yüzü kuralı ile kullanıcı kilidi çelişiyor — kullanıcıya bildirilmeli. P01 ekran yazısı zamanlaması yazı katmanı olduğu için kilidi bozmuyor sayılabilir mi? Orkestra karar versin.
+
+## motion · 2026-11-16 · tur-8: jüri-1 düzeltmeleri (6/10 → düzeltme turu)
+- **bolum.json parametreleri orkestra kararıyla motion tarafından değiştirildi** (yönetmen yerine, kota):
+  - P03: kamera cs 1.7→1.9, cx 34→38, cy 20→30 (Meis–Kaş boğazına ortalı). Sayaç kaldırıldı, sabit "2 km" ekran yazısı 400–488 (çizgi bittikten sonra). Etiketler yeni kadraja taşındı.
+  - P10b: kamera cs 1.8→1.9, aynı merkez.
+  - P06 kamera25: lens 375→650 mm (lens_kare 400→470, inout; isabet anına doğru zoom). Okunurluk beyanı güncellendi.
+  - P08 yol: Zd 230→260, F 3000→2700, h 2→6, xc 19.5→30 (hangar ortada, duman P07c'nin sütununu sürdürür). yangin_guc 0.6, `bot_x0` 10.
+  - Altyazı bayrakları (yalnız bu bölüm): `altyazi.tire_koru: true`, `altyazi.dolu_ise: "ust_alti"`.
+- **Kit (yalnız ekleme; varsayılan davranış aynı):**
+  - `altyazi.tsx` + `tipler.ts`: `tire_koru` kelime içi tireyi korur ("Ben-my-Chree'ydi"). `dolu_ise: "ust_alti"` iki bant doluyken altyazıyı gizlemek yerine üst yazının altında (y≈480) gösterir: P01 kanca iddiası artık ekranda.
+  - `Meis.tsx` (harita): koyu lacivert deniz (kâğıt dokusu arkadan sızar), sığ kıyı bandı, yatay gravür taraması, kıyıya paralel dalga çizgileri; kara sıcak kâğıt + %55 tarama, maki noktaları, tepe çizgileri.
+  - `LimanBolum.tsx`:
+    - P06 isabet: göz gibi okunan eşmerkezli halkalar yerine düzensiz krem çakım + düzensiz kor lekesi, 80 kare (≥1 sn); duman lekenin altından başlar; ≤2 px darbe (14 kare; kenar için %0.4 büyütme).
+    - P05b: omuz üstünden çekime çevrildi. İki tüp perspektifte Meis'e (derinliğe) bakar, sağ el tüpü sarar, işaret parmağı odak halkasında, tek kalkık başparmak yok. Baş arkası ve omuz flu, yüz yok. Ölçek ×1.55.
+    - P08 alevleri P07b'nin kilitli yangın diliyle (`Yangin`, n 9, ölçek pxm/10.4).
+    - P08 motorbotu ahşap gövdeli, kameraya 110 m daha yakın: 360 px'te ≈80 px, figürler okunur.
+  - `LimanYeni.tsx` Yangin: `n` ve `olcek` seçenekleri (varsayılan 11 ve 1 = P07b kilit).
+- **Ses (`tools/benmychree_miks.py`):** Plan kesmesini içeren ≤1.1 sn konuşma boşluklarında duck 0.25'e iner, müzik +5.5 dB ve ortam +7 dB köprü uygulanır. Ortam yatakları kesmede tam örtüşür (+0.8 sn).
+  - Kesme önü çukuru: 18.18 sn −36→−31.5 dB, 27.12 sn −40→−35 dB (TR); EN −31 / −34.4.
+  - Final TR −13.9, EN −14.2 LUFS, TP −2.0. Aralarda müzik en yüksek −16.4 / −16.2 dB (tavan −16'ya ≤0.4 dB yakın). Foley seviyeleri değişmedi.
+- **Piksel-özdeşlik:** P01 k124, P04 k1291, P07b k2388, P10a k3292 (görsel mod), Paris k300 ve Çiçero k1200: hepsi 0 fark.
+- **Doğrulayıcı:** `--tam` 0 hata, 0 uyarı.
+- **Hâlâ zayıf (kendi gözümle):**
+  - P06'nın açılışı P01 kompozisyonuyla aynı; ayrışma ancak zoom'la geliyor.
+  - P05b el biçimi sade.
+  - Haritada figür ya da gemi ikonu yok (kart gereği).
+- **tur-8 ek:** Harita ölçümünde p5 27.9 ve sıcak %3.8 çıktı, kural dışıydı. Deniz koyulaştırıldı (#151b2c), kara sıcak okra yapıldı (#dcb47a). Sonuç: k803 ve k3602'de p5 19.6, p95 71.8, sıcak %32.
+  - Yalnız P03 (603–1090) ve P10b (3406–3665) yeniden render edildi. ProRes parçaları gorsel.mov'a akış kopyasıyla eklendi; 1091. kare hizası piksel olarak denetlendi.
+  - TR/EN yeniden mikslendi: 3666 kare, I −14.0 / −14.2 LUFS, TP −2.0 / −1.8.
+  - Genel bakış ve şeritler güncellendi (`kontrol/`).
